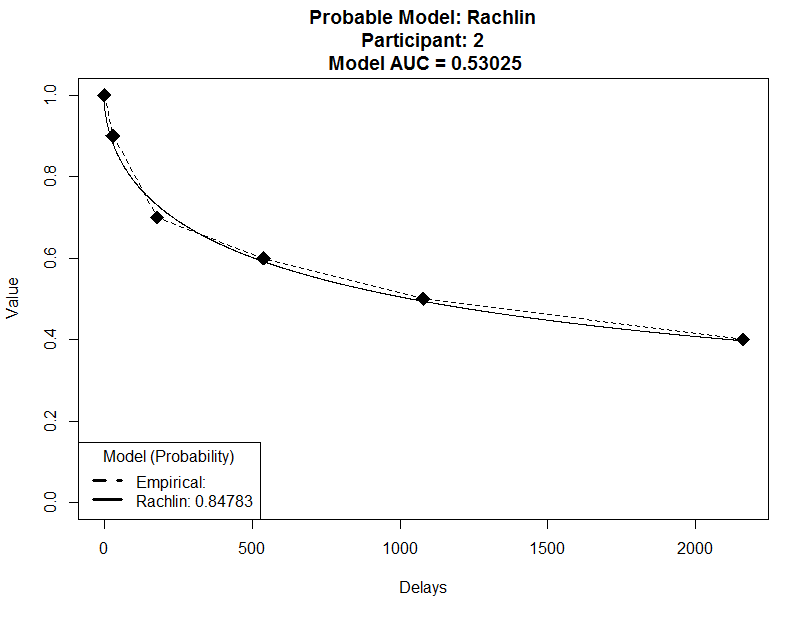
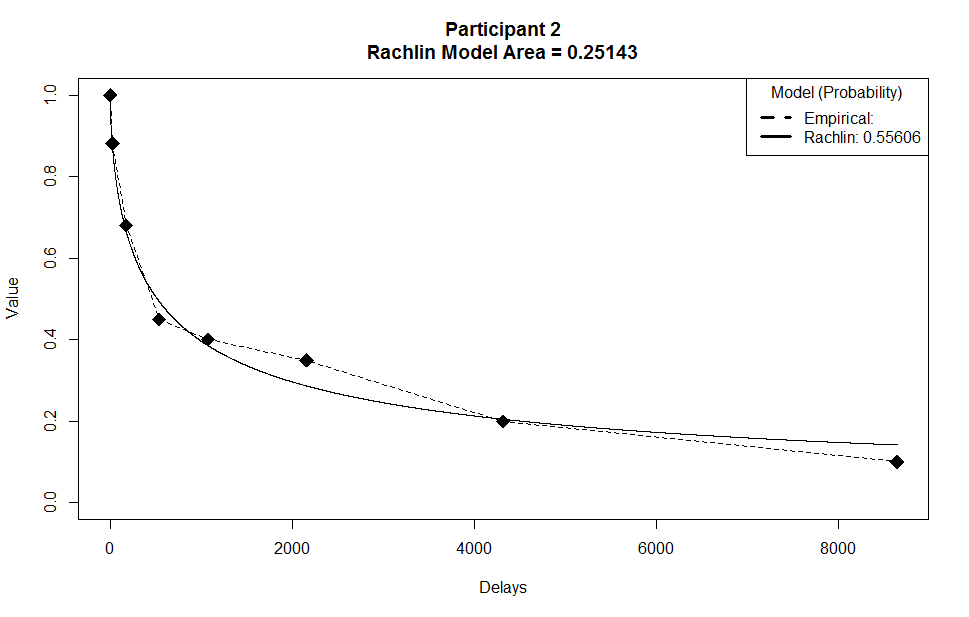
Update figures with new models

diff --git a/README.md b/README.md
@@ -27,15 +27,9 @@ library(discountingtools)
 #### Effective Delay Plotting
 
 ```r
-dat <- data.frame(X=  c(1, 30,  180, 540, 1080, 2160),
-                  Y=  c(1, 0.9, 0.8, 0.7, 0.6,  0.4),
-                  ids= c(1, 1,   1,   1,   1,   1))
-
-dat2<- data.frame(X=  c(1, 30,  180, 540, 1080, 2160),
-                  Y=  c(1, 0.9, 0.7, 0.6, 0.5,  0.4),
-                  ids= c(2, 2,   2,   2,   2,   2))
-
-dat <- rbind(dat, dat2)
+dat <- data.frame(X=  c(1, 30,   180,  540,  1080, 2160,  4320, 8640),
+                  Y=  c(1, 0.88, 0.68, 0.45, 0.4,  0.35,  0.2,  0.1),
+                  ids=c(2, 2,    2,    2,    2,    2,     2,    2))
 
 dat$Y <- dat$Y * 100
 
@@ -47,34 +41,46 @@ results <- discountingModelSelection(dat,
                                      idCol = "ids",
                                      A = 100)
 
-Calculating series id: 1
+Calculating series id: 2
 Model Comparison Summary:
-Rank #:  1  =  ep
- Probability  =  0.785999
- BIC  =  -22.2279
- Most Probable ln(ED50)  =  7.334051
- Most Probable Model AUC  =  0.597619
- Most Probable Model AUC (log)  =  0.843852
+Rank #:  1  =  Rachlin
+ Probability  =  0.556058
+ BIC  =  -25.445513
+ Most Probable ln(ED50)  =  6.25
+ Most Probable Model AUC  =  0.251432
+ Most Probable Model AUC (log)  =  0.666313
 
-Rank #:  2  =  Rachlin
- Probability  =  0.186338
- BIC  =  -19.349116
+Rank #:  2  =  GreenMyerson
+ Probability  =  0.209078
+ BIC  =  -23.489184
 
-Rank #:  3  =  Mazur
- Probability  =  0.023587
- BIC  =  -15.215414
+Rank #:  3  =  EbertPrelec
+ Probability  =  0.190619
+ BIC  =  -23.304321
 
-Rank #:  4  =  exp
- Probability  =  0.003802
- BIC  =  -11.565193
+Rank #:  4  =  BleichrodtCRDI
+ Probability  =  0.036335
+ BIC  =  -19.989357
 
-Rank #:  5  =  BD
- Probability  =  0.000267
- BIC  =  -6.252941
+Rank #:  5  =  RodriguezLogue
+ Probability  =  0.005586
+ BIC  =  -16.244268
 
-Rank #:  6  =  noise
- Probability  =  7e-06
- BIC  =  1.128501
+Rank #:  6  =  Hyperbolic
+ Probability  =  0.002302
+ BIC  =  -14.471566
+
+Rank #:  7  =  Exponential
+ Probability  =  2e-05
+ BIC  =  -4.934802
+
+Rank #:  8  =  Laibson
+ Probability  =  1e-06
+ BIC  =  0.44605
+
+Rank #:  9  =  Noise
+ Probability  =  0
+ BIC  =  7.501642
  
 print(results)
                                      
@@ -94,23 +100,15 @@ print(results)
 1         0.8438519
 2         0.7925787
 ```
-
-![Alt text](Figure_ED50_1.png?raw=true "ED50 Visuals")
 
 ![Alt text](Figure_ED50_2.png?raw=true "ED50 Visuals")
 
 #### Model-based Area
 
 ```r
-dat <- data.frame(X=  c(1, 30,  180, 540, 1080, 2160),
-                  Y=  c(1, 0.9, 0.8, 0.7, 0.6,  0.4),
-                  ids= c(1, 1,   1,   1,   1,   1))
-
-dat2<- data.frame(X=  c(1, 30,  180, 540, 1080, 2160),
-                  Y=  c(1, 0.9, 0.7, 0.6, 0.5,  0.4),
-                  ids= c(2, 2,   2,   2,   2,   2))
-
-dat <- rbind(dat, dat2)
+dat <- data.frame(X=  c(1, 30,   180,  540,  1080, 2160,  4320, 8640),
+                  Y=  c(1, 0.88, 0.68, 0.45, 0.4,  0.35,  0.2,  0.1),
+                  ids=c(2, 2,    2,    2,    2,    2,     2,    2))
 
 dat$Y <- dat$Y * 100
 
@@ -122,34 +120,46 @@ results <- discountingModelSelection(dat,
                                      idCol = "ids",
                                      A = 100)
 
-Calculating series id: 1
+Calculating series id: 2
 Model Comparison Summary:
-Rank #:  1  =  ep
- Probability  =  0.785999
- BIC  =  -22.2279
- Most Probable ln(ED50)  =  7.334051
- Most Probable Model AUC  =  0.597619
- Most Probable Model AUC (log)  =  0.843852
+Rank #:  1  =  Rachlin
+ Probability  =  0.556058
+ BIC  =  -25.445513
+ Most Probable ln(ED50)  =  6.25
+ Most Probable Model AUC  =  0.251432
+ Most Probable Model AUC (log)  =  0.666313
 
-Rank #:  2  =  Rachlin
- Probability  =  0.186338
- BIC  =  -19.349116
+Rank #:  2  =  GreenMyerson
+ Probability  =  0.209078
+ BIC  =  -23.489184
 
-Rank #:  3  =  Mazur
- Probability  =  0.023587
- BIC  =  -15.215414
+Rank #:  3  =  EbertPrelec
+ Probability  =  0.190619
+ BIC  =  -23.304321
 
-Rank #:  4  =  exp
- Probability  =  0.003802
- BIC  =  -11.565193
+Rank #:  4  =  BleichrodtCRDI
+ Probability  =  0.036335
+ BIC  =  -19.989357
 
-Rank #:  5  =  BD
- Probability  =  0.000267
- BIC  =  -6.252941
+Rank #:  5  =  RodriguezLogue
+ Probability  =  0.005586
+ BIC  =  -16.244268
 
-Rank #:  6  =  noise
- Probability  =  7e-06
- BIC  =  1.128501
+Rank #:  6  =  Hyperbolic
+ Probability  =  0.002302
+ BIC  =  -14.471566
+
+Rank #:  7  =  Exponential
+ Probability  =  2e-05
+ BIC  =  -4.934802
+
+Rank #:  8  =  Laibson
+ Probability  =  1e-06
+ BIC  =  0.44605
+
+Rank #:  9  =  Noise
+ Probability  =  0
+ BIC  =  7.501642
  
 print(results)
                                      
@@ -170,22 +180,14 @@ print(results)
 2         0.7925787
 ```
 
-![Alt text](Figure_AUC_1.png?raw=true "Model AUC Visuals")
-
 ![Alt text](Figure_AUC_2.png?raw=true "Model AUC Visuals")
 
 #### Model-based Area (logarithmic scaling)
 
 ```r
-dat <- data.frame(X=  c(1, 30,  180, 540, 1080, 2160),
-                  Y=  c(1, 0.9, 0.8, 0.7, 0.6,  0.4),
-                  ids= c(1, 1,   1,   1,   1,   1))
-
-dat2<- data.frame(X=  c(1, 30,  180, 540, 1080, 2160),
-                  Y=  c(1, 0.9, 0.7, 0.6, 0.5,  0.4),
-                  ids= c(2, 2,   2,   2,   2,   2))
-
-dat <- rbind(dat, dat2)
+dat <- data.frame(X=  c(1, 30,   180,  540,  1080, 2160,  4320, 8640),
+                  Y=  c(1, 0.88, 0.68, 0.45, 0.4,  0.35,  0.2,  0.1),
+                  ids=c(2, 2,    2,    2,    2,    2,     2,    2))
 
 dat$Y <- dat$Y * 100
 
@@ -197,34 +199,46 @@ results <- discountingModelSelection(dat,
                                      idCol = "ids",
                                      A = 100)
 
-Calculating series id: 1
+Calculating series id: 2
 Model Comparison Summary:
-Rank #:  1  =  ep
- Probability  =  0.785999
- BIC  =  -22.2279
- Most Probable ln(ED50)  =  7.334051
- Most Probable Model AUC  =  0.597619
- Most Probable Model AUC (log)  =  0.843852
+Rank #:  1  =  Rachlin
+ Probability  =  0.556058
+ BIC  =  -25.445513
+ Most Probable ln(ED50)  =  6.25
+ Most Probable Model AUC  =  0.251432
+ Most Probable Model AUC (log)  =  0.666313
 
-Rank #:  2  =  Rachlin
- Probability  =  0.186338
- BIC  =  -19.349116
+Rank #:  2  =  GreenMyerson
+ Probability  =  0.209078
+ BIC  =  -23.489184
 
-Rank #:  3  =  Mazur
- Probability  =  0.023587
- BIC  =  -15.215414
+Rank #:  3  =  EbertPrelec
+ Probability  =  0.190619
+ BIC  =  -23.304321
 
-Rank #:  4  =  exp
- Probability  =  0.003802
- BIC  =  -11.565193
+Rank #:  4  =  BleichrodtCRDI
+ Probability  =  0.036335
+ BIC  =  -19.989357
 
-Rank #:  5  =  BD
- Probability  =  0.000267
- BIC  =  -6.252941
+Rank #:  5  =  RodriguezLogue
+ Probability  =  0.005586
+ BIC  =  -16.244268
 
-Rank #:  6  =  noise
- Probability  =  7e-06
- BIC  =  1.128501
+Rank #:  6  =  Hyperbolic
+ Probability  =  0.002302
+ BIC  =  -14.471566
+
+Rank #:  7  =  Exponential
+ Probability  =  2e-05
+ BIC  =  -4.934802
+
+Rank #:  8  =  Laibson
+ Probability  =  1e-06
+ BIC  =  0.44605
+
+Rank #:  9  =  Noise
+ Probability  =  0
+ BIC  =  7.501642
  
 print(results)
 
@@ -245,8 +259,6 @@ print(results)
 2         0.7925787
 
 ```
-
-![Alt text](Figure_Model_AUC_Log10_1.png?raw=true "Log10 Model AUC Visuals")
 
 ![Alt text](Figure_Model_AUC_Log10_2.png?raw=true "Log10 Model AUC Visuals")
 
@@ -255,8 +267,8 @@ print(results)
 * Noise Model: Intecept-only comparison model (included by default)
 * Exponential Model: Samuelson, P. A. (1937). A note on measurement of utility. The Review of Economic Studies, 4(2), 155–161. https://doi.org/10.2307/2967612
 * Hyperbolic Model: Mazur, J. E. (1987). An adjusting procedure for studying delayed reinforcement. In Quantitative analysis of behavior: Vol. 5. The effect of delay and intervening events on reinforcement value (pp. 55–73). Hillsdale, NJ: Erlbaum.
-* Beta Delta Model: Laibson, D. (1997). Golden eggs and hyperbolic discounting. The Quarterly Journal of Economics, 112(2), 443–478. https://doi.org/10.1162/003355397555253
 * Rodriguez & Logue Model: Rodriguez, M. L., & Logue, A. W. (1988). Adjusting delay to reinforcement: Comparing choice in pigeons and humans. Journal of Experimental Psychology: Animal Behavior Processes, 14(1), 105–117. https://doi.org/10.1037/0097-7403.14.1.105
+* Beta Delta Model: Laibson, D. (1997). Golden eggs and hyperbolic discounting. The Quarterly Journal of Economics, 112(2), 443–478. https://doi.org/10.1162/003355397555253
 * Green & Myerson Model: Green, L., & Myerson, J. (2004). A discounting framework for choice with delayed and probabilistic rewards. Psychological Bulletin, 130(5), 769–792. https://doi.org/10.1037/0033-2909.130.5.769
 * Rachlin Model: Rachlin, H. (2006). Notes on discounting. Journal of the Experimental Analysis of Behavior, 85(3), 425–435. https://doi.org/10.1901/jeab.2006.85-05
 * Ebert & Prelec Model: Ebert, J. E. J., & Prelec, D. (2007). The Fragility of Time: Time-Insensitivity and Valuation of the Near and Far Future. Management Science, 53(9), 1423–1438. https://doi.org/10.1287/mnsc.1060.0671
